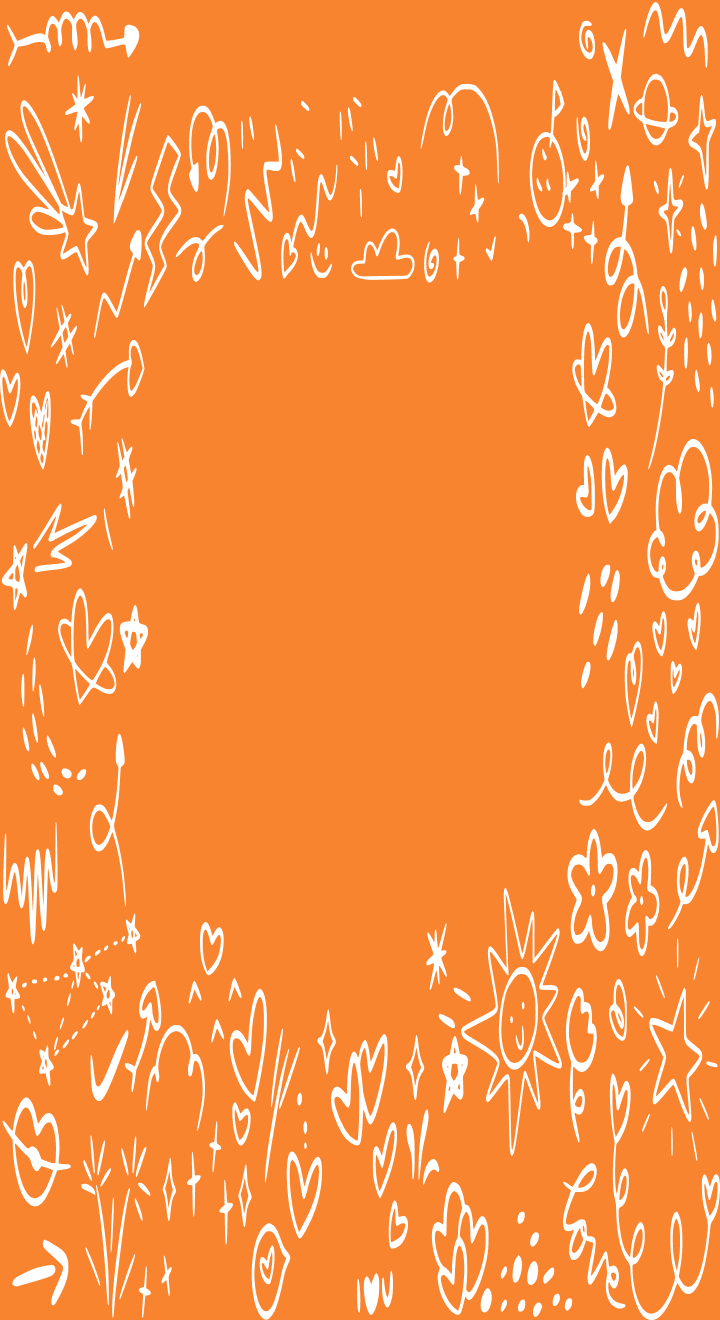
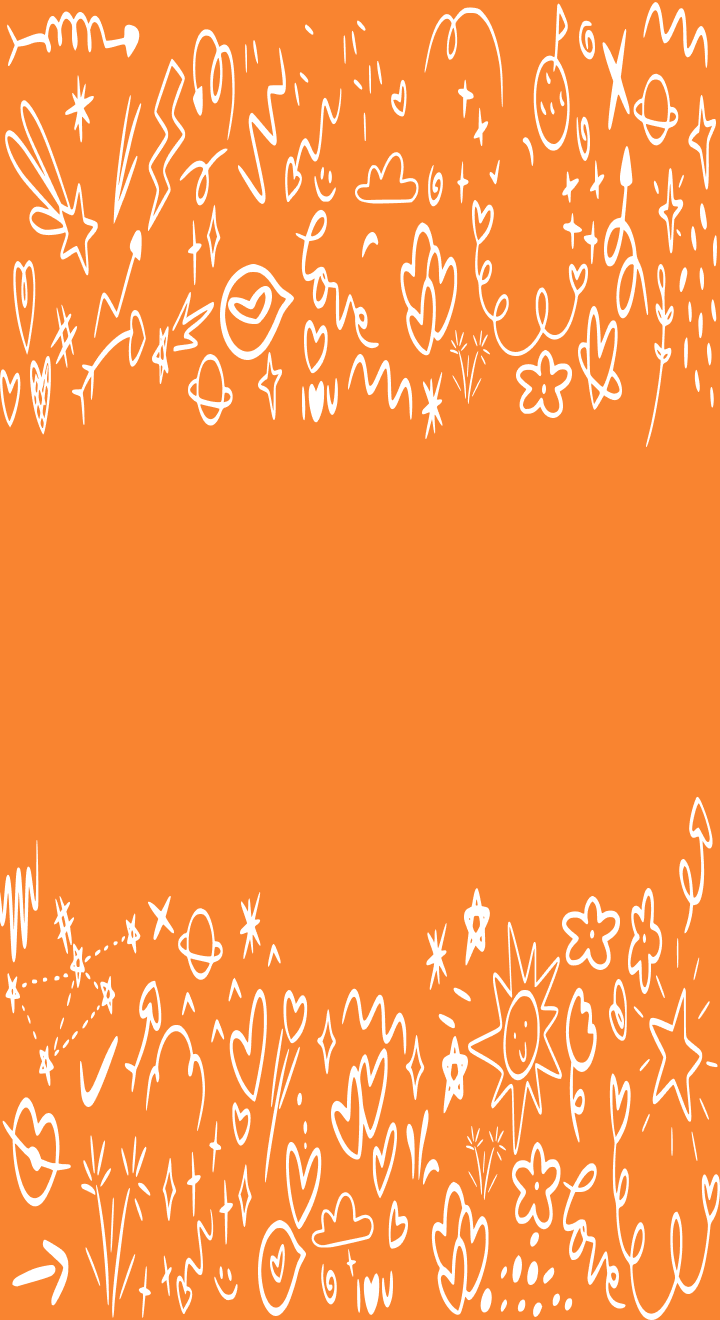
bg-novo

diff --git a/styles/style1.css b/styles/style1.css
@@ -1,0 +1,111 @@
+* {
+  margin: 0;
+  padding: 0;
+  box-sizing: border-box;
+}
+
+:root{
+  --bg-url: url(../images/bg-mb.png);
+}
+body {
+  background: var(--bg-url);
+  background-size: cover;
+  background-position: center;
+  background-repeat: no-repeat;
+  display: flex;
+  flex-direction: column;
+  justify-content: center;
+  align-items: center;
+  margin: 30px 50px;
+  height: 100vh;
+  overflow: hidden;
+}
+
+body * {
+  font-family: "Prompt", sans-serif;
+  color: var(--text-color);
+}
+.conteudo{
+  width: 730px;
+  height: 460px;
+  flex-shrink: 0;
+  display: flex;
+  justify-content: center;
+  align-items: center;
+  border-radius: 25px;
+  border: 5px solid #e65314;
+  box-shadow: 0px 4px 28px 0px #8d320b;
+  padding: 10px 10px 10px 10px;
+  position: relative;
+  bottom: 38px;
+}
+.card-bg{
+  width: 95%;
+  height: 90%;
+  padding: 20px 20px 20px 20px;
+  border-radius: 21px;
+  background: #f55410;
+  flex-shrink: 0;
+  border-bottom: 13px solid  #e64c0a;
+  text-align: center;
+}
+p{
+  font-family: 'Prompt', sans-serif;
+  color: #ffffff;
+  font-size: 7vw;
+  font-style: normal;
+  font-weight: 1000;
+  line-height: normal;
+  letter-spacing: 1px;
+}
+.frase{
+  font-family: 'Prompt', sans-serif;
+  color: #ffffff;
+  font-size: 20px;
+  font-style: normal;
+  font-weight: 1000;
+  line-height: normal;
+  letter-spacing: 1.6px;
+}
+#imagem{
+  width: 70%;
+  height: 80%;
+  padding-top: 20px;
+  
+}
+#botao{
+  width: 118px;
+  height: 48px;
+  background-image: url('../images/play_btn.png');
+  background-size: cover;
+  font-family: 'Prompt', sans-serif;
+  border: 3px solid #FFFEFF;
+  border-radius: 33px;
+  position: relative;
+  top: -20px;
+  font-size: 20px;
+  font-weight: bold;
+  color: #FFFEFF;
+  cursor: pointer;
+  transition: 0.3s;
+}
+#botao:hover{
+  transition-duration: 0.4s;
+  box-shadow: 0 12px 14px 0 rgba(0,0,0,0.24), 0 15px 45px 0 rgba(0,0,0,0.19);
+  background-color: #A6F208;
+}
+/* media queries */
+@media (min-width: 700px) {
+    :root {
+      --bg-url: url(../images/bg2.png);
+    }
+}
+
+@media(height: 1368px){
+  body {
+  background: var(--bg-url) center/cover;
+  height: 100vh;
+}
+
+}
+

diff --git a/index.html b/index.html
@@ -5,7 +5,7 @@
     <link rel="preconnect" href="https://fonts.googleapis.com">
     <link rel="preconnect" href="https://fonts.gstatic.com" crossorigin>
     <link href="https://fonts.googleapis.com/css2?family=Cairo:wght@800&family=Prompt&display=swap" rel="stylesheet">
-    <link rel="stylesheet" href="./styles/style.css">
+    <link rel="stylesheet" href="./styles/style1.css">
     <title>Dinâmica de acolhimento</title>
 </head>
 <body>
